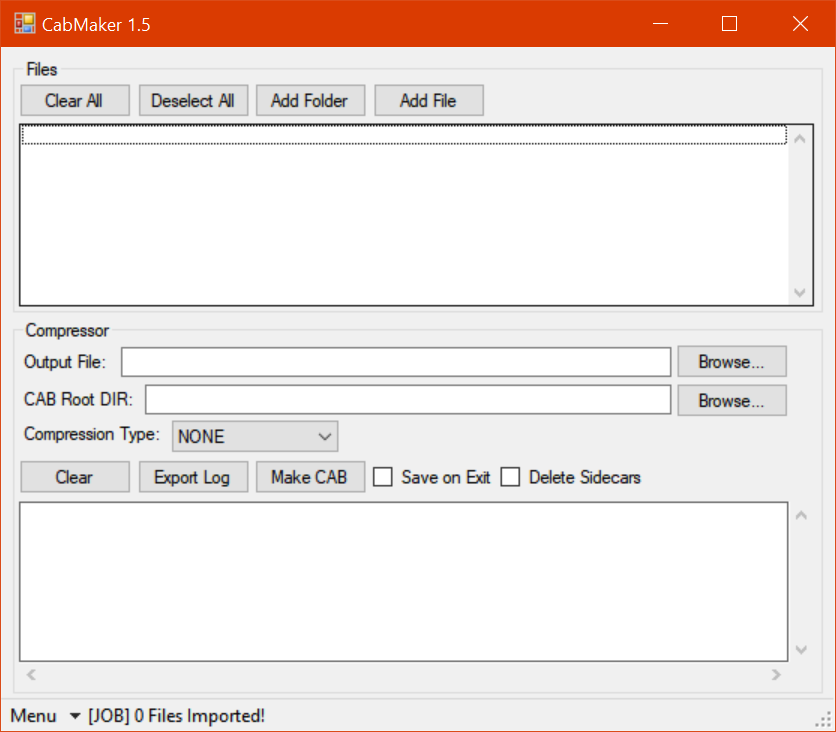
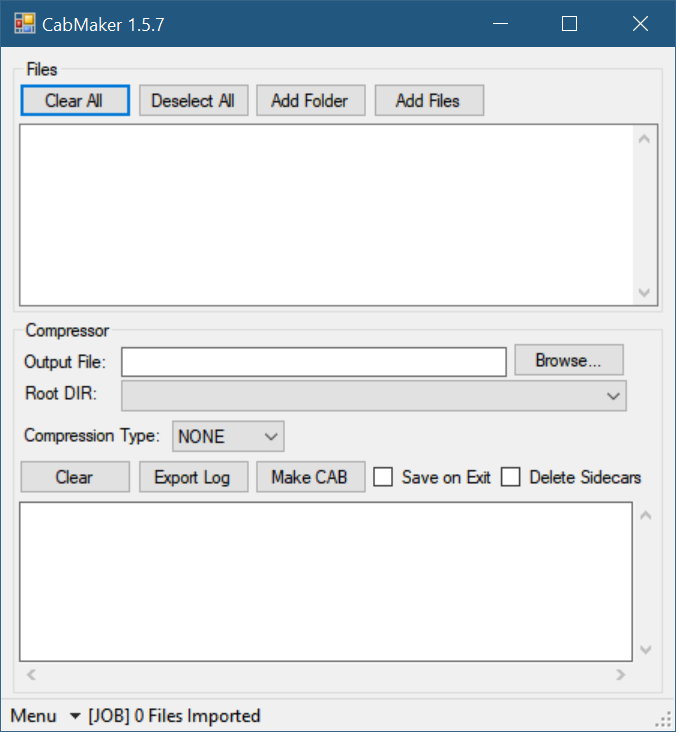
Version 1.5.7

diff --git a/Form1.Designer.cs b/Form1.Designer.cs
@@ -97,7 +97,7 @@ namespace CabMaker
             this.TextOutput.ReadOnly = true;
             this.TextOutput.ScrollBars = System.Windows.Forms.ScrollBars.Both;
             this.TextOutput.Size = new System.Drawing.Size(638, 190);
-            this.TextOutput.TabIndex = 22;
+            this.TextOutput.TabIndex = 21;
             this.TextOutput.WordWrap = false;
             // 
             // ButtonRun
@@ -106,7 +106,7 @@ namespace CabMaker
             this.ButtonRun.Margin = new System.Windows.Forms.Padding(4, 5, 4, 5);
             this.ButtonRun.Name = "ButtonRun";
             this.ButtonRun.Size = new System.Drawing.Size(112, 35);
-            this.ButtonRun.TabIndex = 19;
+            this.ButtonRun.TabIndex = 18;
             this.ButtonRun.Text = "Make CAB";
             this.ToolTip.SetToolTip(this.ButtonRun, "Create a Cabinet with the above specifications");
             this.ButtonRun.UseVisualStyleBackColor = true;
@@ -141,7 +141,7 @@ namespace CabMaker
             this.LabelCompressionType.Margin = new System.Windows.Forms.Padding(4, 0, 4, 0);
             this.LabelCompressionType.Name = "LabelCompressionType";
             this.LabelCompressionType.Size = new System.Drawing.Size(144, 20);
-            this.LabelCompressionType.TabIndex = 13;
+            this.LabelCompressionType.TabIndex = 12;
             this.LabelCompressionType.Text = "Compression Type:";
             // 
             // LabelCompressionMemory
@@ -151,7 +151,7 @@ namespace CabMaker
             this.LabelCompressionMemory.Margin = new System.Windows.Forms.Padding(4, 0, 4, 0);
             this.LabelCompressionMemory.Name = "LabelCompressionMemory";
             this.LabelCompressionMemory.Size = new System.Drawing.Size(166, 20);
-            this.LabelCompressionMemory.TabIndex = 15;
+            this.LabelCompressionMemory.TabIndex = 14;
             this.LabelCompressionMemory.Text = "Compression Memory:";
             // 
             // DropdownCompressType
@@ -161,7 +161,7 @@ namespace CabMaker
             this.DropdownCompressType.Location = new System.Drawing.Point(159, 103);
             this.DropdownCompressType.Name = "DropdownCompressType";
             this.DropdownCompressType.Size = new System.Drawing.Size(110, 28);
-            this.DropdownCompressType.TabIndex = 14;
+            this.DropdownCompressType.TabIndex = 13;
             this.ToolTip.SetToolTip(this.DropdownCompressType, "Compression Algorithm used for the Cabinet");
             this.DropdownCompressType.SelectedIndexChanged += new System.EventHandler(this.DropdownCompressType_SelectedIndexChanged);
             // 
@@ -173,7 +173,7 @@ namespace CabMaker
             this.DropdownCompressMemory.Location = new System.Drawing.Point(452, 103);
             this.DropdownCompressMemory.Name = "DropdownCompressMemory";
             this.DropdownCompressMemory.Size = new System.Drawing.Size(110, 28);
-            this.DropdownCompressMemory.TabIndex = 16;
+            this.DropdownCompressMemory.TabIndex = 15;
             this.ToolTip.SetToolTip(this.DropdownCompressMemory, "Memory Chunk Units for the LZX Cabinet");
             // 
             // GroupBoxFiles
@@ -285,7 +285,7 @@ namespace CabMaker
             this.ComboRootDir.Location = new System.Drawing.Point(108, 62);
             this.ComboRootDir.Name = "ComboRootDir";
             this.ComboRootDir.Size = new System.Drawing.Size(504, 28);
-            this.ComboRootDir.TabIndex = 23;
+            this.ComboRootDir.TabIndex = 11;
             // 
             // CheckDeleteSidecars
             // 
@@ -293,7 +293,7 @@ namespace CabMaker
             this.CheckDeleteSidecars.Location = new System.Drawing.Point(488, 149);
             this.CheckDeleteSidecars.Name = "CheckDeleteSidecars";
             this.CheckDeleteSidecars.Size = new System.Drawing.Size(148, 24);
-            this.CheckDeleteSidecars.TabIndex = 21;
+            this.CheckDeleteSidecars.TabIndex = 20;
             this.CheckDeleteSidecars.Text = "Delete Sidecars";
             this.ToolTip.SetToolTip(this.CheckDeleteSidecars, "Deletes temporary files after job");
             this.CheckDeleteSidecars.UseVisualStyleBackColor = true;
@@ -315,7 +315,7 @@ namespace CabMaker
             this.CheckSaveSettings.Margin = new System.Windows.Forms.Padding(2);
             this.CheckSaveSettings.Name = "CheckSaveSettings";
             this.CheckSaveSettings.Size = new System.Drawing.Size(123, 24);
-            this.CheckSaveSettings.TabIndex = 20;
+            this.CheckSaveSettings.TabIndex = 19;
             this.CheckSaveSettings.Text = "Save on Exit";
             this.ToolTip.SetToolTip(this.CheckSaveSettings, "Saves CabMaker User Settings on Exit");
             this.CheckSaveSettings.UseVisualStyleBackColor = true;
@@ -326,7 +326,7 @@ namespace CabMaker
             this.ButtonClear.Location = new System.Drawing.Point(6, 143);
             this.ButtonClear.Name = "ButtonClear";
             this.ButtonClear.Size = new System.Drawing.Size(112, 35);
-            this.ButtonClear.TabIndex = 17;
+            this.ButtonClear.TabIndex = 16;
             this.ButtonClear.Text = "Clear";
             this.ToolTip.SetToolTip(this.ButtonClear, "Clear the contents of all settings");
             this.ButtonClear.UseVisualStyleBackColor = true;
@@ -337,7 +337,7 @@ namespace CabMaker
             this.ButtonExport.Location = new System.Drawing.Point(124, 143);
             this.ButtonExport.Name = "ButtonExport";
             this.ButtonExport.Size = new System.Drawing.Size(112, 35);
-            this.ButtonExport.TabIndex = 18;
+            this.ButtonExport.TabIndex = 17;
             this.ButtonExport.Text = "Export Log";
             this.ToolTip.SetToolTip(this.ButtonExport, "Export the contents of the Log Box to a file");
             this.ButtonExport.UseVisualStyleBackColor = true;
@@ -353,7 +353,7 @@ namespace CabMaker
             this.StatusStrip.Name = "StatusStrip";
             this.StatusStrip.Padding = new System.Windows.Forms.Padding(2, 0, 14, 0);
             this.StatusStrip.Size = new System.Drawing.Size(674, 32);
-            this.StatusStrip.TabIndex = 23;
+            this.StatusStrip.TabIndex = 22;
             this.StatusStrip.Text = "statusStrip1";
             // 
             // MainMenu

diff --git a/Properties/AssemblyInfo.cs b/Properties/AssemblyInfo.cs
@@ -32,5 +32,5 @@ using System.Runtime.InteropServices;
 // You can specify all the values or you can default the Build and Revision Numbers 
 // by using the '*' as shown below:
 // [assembly: AssemblyVersion("1.0.*")]
-[assembly: AssemblyVersion("1.5.6.0")]
-[assembly: AssemblyFileVersion("1.5.6.0")]
+[assembly: AssemblyVersion("1.5.7.0")]
+[assembly: AssemblyFileVersion("1.5.7.0")]
